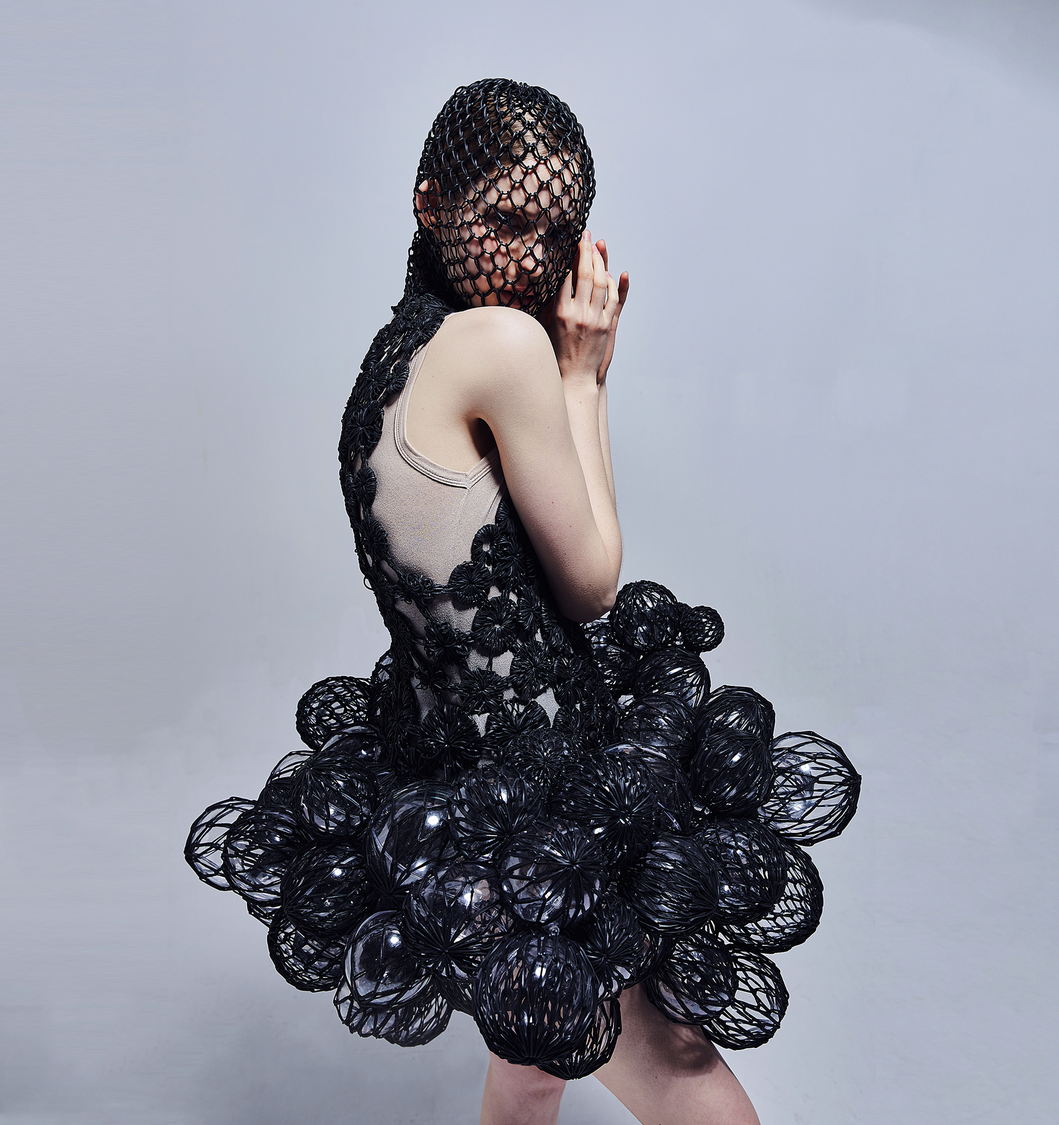
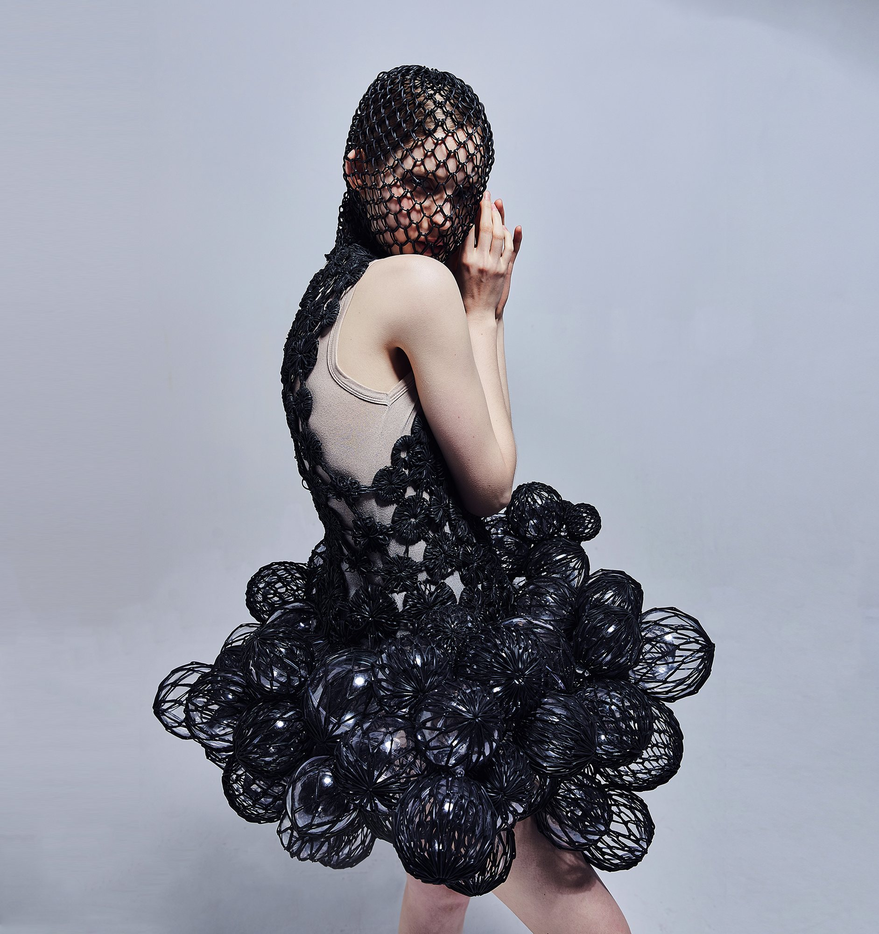
Panning project cover, Look image windows with lightbox; compress uploaded cover (v2.7)
Claude-Session: https://claude.ai/code/session_01VQV7hajEjax9oiGKXgs9MZ

Changed region(s): [[0.462, 0.093, 0.5544, 0.155], [0.77, 0.713, 0.8008, 0.744]]

diff --git a/assets/js/main.js b/assets/js/main.js
@@ -48,6 +48,7 @@
     material:   { zh: "材料探索", en: "Material Exploration" },
     others:     { zh: "其他", en: "Others" },
     soon:       { zh: "内容即将更新。", en: "Coming soon." },
+    close:      { zh: "关闭", en: "Close" },
     research:   { zh: "研究", en: "Research" },
     about:      { zh: "关于", en: "About" },
     all:        { zh: "全部", en: "All" },
@@ -178,7 +179,7 @@
     if (c.email) items.push('<a href="mailto:' + esc(c.email) + '">' + esc(c.email) + "</a>");
     if (c.instagram) items.push('<a href="' + esc(c.instagram) + '" target="_blank" rel="noopener">Instagram</a>');
     if (c.linkedin) items.push('<a href="' + esc(c.linkedin) + '" target="_blank" rel="noopener">LinkedIn</a>');
-    return "<span>© " + new Date().getFullYear() + " " + esc(S.name.en) + " " + esc(S.name.zh) + ' <i class="ver">v2.6</i></span>' +
+    return "<span>© " + new Date().getFullYear() + " " + esc(S.name.en) + " " + esc(S.name.zh) + ' <i class="ver">v2.7</i></span>' +
       (items.length ? '<span class="links">' + items.join("") + "</span>" : "");
   }
 
@@ -190,6 +191,45 @@
   }
   function sortedProjects() {
     return S.projects.slice().sort(function (a, b) { return b.year - a.year; });
+  }
+
+  /* 每套 Look 一行展示窗口；没有图片时先显示占位框
+     One row of image windows per look; placeholders until photos are added */
+  function looks(p) {
+    var L = (p.looks || []).filter(function (l) { return l && (l.name || (l.images || []).length); });
+    if (!L.length) return "";
+    return '<section class="looks">' + L.map(function (l) {
+      var pics = (l.images || []).filter(Boolean);
+      var cells = pics.length ? pics.map(function (src) { return img(src, t(p.title) + " " + (l.name || ""), "zoomable"); }).join("")
+                              : '<div class="ph missing"></div><div class="ph missing"></div><div class="ph missing"></div>';
+      return '<div class="look"><h2 class="look-name">' + esc(l.name || "") + '</h2><div class="look-grid">' + cells + "</div></div>";
+    }).join("") + "</section>";
+  }
+
+  /* 点击图片看完整大图 / click an image to see it whole */
+  function wireLightbox() {
+    var imgs = [].slice.call(document.querySelectorAll("#app .zoomable img"));
+    imgs.forEach(function (im, i) {
+      im.parentNode.onclick = function () { openBox(imgs.map(function (x) { return x.src; }), i); };
+    });
+  }
+  function openBox(list, i) {
+    var box = document.createElement("div");
+    box.className = "lightbox";
+    box.innerHTML = '<img alt=""><button class="lb-close" aria-label="' + t(UI.close) + '">×</button>' +
+      (list.length > 1 ? '<button class="lb-prev" aria-label="' + t(UI.prev) + '"></button><button class="lb-next" aria-label="' + t(UI.nextSlide) + '"></button>' : "");
+    var pic = box.querySelector("img");
+    function show(k) { i = (k + list.length) % list.length; pic.src = list[i]; }
+    function close() { box.remove(); document.removeEventListener("keydown", key); document.body.classList.remove("no-scroll"); }
+    function key(e) { if (e.key === "Escape") close(); if (e.key === "ArrowRight") show(i + 1); if (e.key === "ArrowLeft") show(i - 1); }
+    box.onclick = function (e) {
+      if (e.target.classList.contains("lb-next")) show(i + 1);
+      else if (e.target.classList.contains("lb-prev")) show(i - 1);
+      else if (e.target !== pic) close();
+    };
+    document.addEventListener("keydown", key);
+    document.body.appendChild(box); document.body.classList.add("no-scroll");
+    show(i);
   }
 
   /* ---------- 各页面 / Pages ---------- */
@@ -248,14 +288,15 @@
         '<article class="project"><header class="project-head"><h1>' + esc(t(p.title)) + "</h1>" +
         (lang === "zh" && p.title.en !== p.title.zh ? '<p class="alt-title">' + esc(p.title.en) + "</p>" : "") +
         (lang === "en" && p.title.en !== p.title.zh ? '<p class="alt-title">' + esc(p.title.zh) + "</p>" : "") + "</header>" +
-        img(p.cover, t(p.title), "ratio-wide") +
+        img(p.cover, t(p.title), "ratio-wide pan zoomable") +
         '<div class="project-body"><dl class="facts"><div><dt>' + t(UI.year) + "</dt><dd>" + esc(p.year) + "</dd></div>" +
         "<div><dt>" + t(UI.category) + "</dt><dd>" + esc(t(p.category)) + "</dd></div>" +
         (p.materials ? "<div><dt>" + t(UI.materials) + "</dt><dd>" + esc(t(p.materials)) + "</dd></div>" : "") +
         (tags ? '<div class="tags">' + tags + "</div>" : "") + "</dl>" +
         '<div class="prose">' + paras(t(p.description)) + "</div></div>" +
+        looks(p) +
         videoEmbed(p.video) +
-        '<div class="gallery">' + (p.images || []).map(function (s) { return img(s, t(p.title), ""); }).join("") + "</div>" +
+        ((p.images || []).length ? '<div class="gallery">' + p.images.map(function (s) { return img(s, t(p.title), "zoomable"); }).join("") + "</div>" : "") +
         "</article>" +
         (next && next.id !== p.id ? '<a class="next" href="' + projectUrl(next.id) + '"><span>' + t(UI.next) + "</span><strong>" + esc(t(next.title)) + " →</strong></a>" : "");
     },
@@ -395,7 +436,7 @@
   }
 
   var _render = render;
-  render = function () { _render(); wireSlider(); fitStitches(); };
+  render = function () { _render(); wireSlider(); wireLightbox(); fitStitches(); };
   if (document.fonts && document.fonts.ready) document.fonts.ready.then(fitStitches);
   Promise.all(["site", "projects", "materials", "about"].map(load)).then(function (d) {
     S = build(d[0], d[1], d[2], d[3]);

diff --git a/assets/css/style.css b/assets/css/style.css
@@ -300,3 +300,31 @@ body.no-scroll { overflow: hidden; }
 .menu-sub a { display: block; padding: 4px 0; font-size: 14px; color: var(--ink); opacity: .75; transition: opacity .2s; }
 .menu-sub a:hover { opacity: 1; }
 @media (max-width: 720px) { .menu { display: none; } }
+
+/* ---------- 项目页：封面在取景框里从上往下慢慢滑动 / Project cover slowly pans from top to bottom ----------
+   --pan-time：滑动一次用几秒 / seconds for one pass */
+.ph.pan { --pan-time: 14s; }
+.ph.pan img { object-position: 50% 0%; animation: pan var(--pan-time) ease-in-out .6s infinite alternate; }
+@keyframes pan { to { object-position: 50% 100%; } }
+@media (prefers-reduced-motion: reduce) { .ph.pan img { animation: none; object-position: 50% 30%; } }
+
+/* ---------- Looks ---------- */
+.looks { margin: clamp(48px, 7vw, 96px) 0 clamp(40px, 6vw, 80px); }
+.look + .look { margin-top: clamp(40px, 6vw, 72px); }
+.look-name { font-size: 12px; letter-spacing: .16em; text-transform: uppercase; color: var(--ink); padding-bottom: 12px; margin-bottom: clamp(14px, 2vw, 20px); border-bottom: 1px dashed var(--ink); }
+.look-grid { display: grid; grid-template-columns: repeat(3, 1fr); gap: clamp(10px, 1.6vw, 20px); }
+.look-grid .ph { aspect-ratio: 3 / 4; }
+.zoomable:not(.missing) { cursor: zoom-in; }
+.zoomable img { transition: transform .6s ease; }
+.look-grid .zoomable:hover img, .gallery .zoomable:hover img { transform: scale(1.02); }
+
+/* ---------- 大图查看 / Lightbox ---------- */
+.lightbox { position: fixed; inset: 0; z-index: 200; background: rgba(255,255,255,.97); display: flex; align-items: center; justify-content: center; padding: clamp(16px, 4vw, 56px); cursor: zoom-out; animation: lbIn .3s ease; }
+.lightbox img { position: static; width: auto; height: auto; max-width: 100%; max-height: 100%; object-fit: contain; cursor: default; }
+.lb-close { position: absolute; top: 14px; right: 20px; font-size: 30px; line-height: 1; color: var(--ink); }
+.lb-prev, .lb-next { position: absolute; top: 50%; width: 48px; height: 72px; transform: translateY(-50%); }
+.lb-prev { left: 8px; } .lb-next { right: 8px; }
+.lb-prev::before, .lb-next::before { content: ""; position: absolute; inset: 0; margin: auto; width: 20px; height: 20px; border: solid var(--ink); border-width: 1px 1px 0 0; pointer-events: none; }
+.lb-prev::before { transform: translateX(5px) rotate(-135deg); } .lb-next::before { transform: translateX(-5px) rotate(45deg); }
+@keyframes lbIn { from { opacity: 0; } }
+@media (max-width: 720px) { .look-grid { grid-template-columns: repeat(2, 1fr); } }

diff --git a/research.html b/research.html
@@ -9,12 +9,12 @@
 <link rel="preconnect" href="https://fonts.googleapis.com">
 <link rel="preconnect" href="https://fonts.gstatic.com" crossorigin>
 <link href="https://fonts.googleapis.com/css2?family=Inter+Tight:wght@300;400;600&display=swap" rel="stylesheet">
-<link rel="stylesheet" href="assets/css/style.css?v=20261101p">
+<link rel="stylesheet" href="assets/css/style.css?v=20261101q">
 </head>
 <body data-page="research">
 <header id="site-header"></header>
 <main class="wrap" id="app"></main>
 <footer id="site-footer"></footer>
-<script src="assets/js/main.js?v=20261101p"></script>
+<script src="assets/js/main.js?v=20261101q"></script>
 </body>
 </html>

diff --git a/project.html b/project.html
@@ -9,12 +9,12 @@
 <link rel="preconnect" href="https://fonts.googleapis.com">
 <link rel="preconnect" href="https://fonts.gstatic.com" crossorigin>
 <link href="https://fonts.googleapis.com/css2?family=Inter+Tight:wght@300;400;600&display=swap" rel="stylesheet">
-<link rel="stylesheet" href="assets/css/style.css?v=20261101p">
+<link rel="stylesheet" href="assets/css/style.css?v=20261101q">
 </head>
 <body data-page="project">
 <header id="site-header"></header>
 <main class="wrap" id="app"></main>
 <footer id="site-footer"></footer>
-<script src="assets/js/main.js?v=20261101p"></script>
+<script src="assets/js/main.js?v=20261101q"></script>
 </body>
 </html>

diff --git a/about.html b/about.html
@@ -9,12 +9,12 @@
 <link rel="preconnect" href="https://fonts.googleapis.com">
 <link rel="preconnect" href="https://fonts.gstatic.com" crossorigin>
 <link href="https://fonts.googleapis.com/css2?family=Inter+Tight:wght@300;400;600&display=swap" rel="stylesheet">
-<link rel="stylesheet" href="assets/css/style.css?v=20261101p">
+<link rel="stylesheet" href="assets/css/style.css?v=20261101q">
 </head>
 <body data-page="about">
 <header id="site-header"></header>
 <main class="wrap" id="app"></main>
 <footer id="site-footer"></footer>
-<script src="assets/js/main.js?v=20261101p"></script>
+<script src="assets/js/main.js?v=20261101q"></script>
 </body>
 </html>

diff --git a/works.html b/works.html
@@ -9,12 +9,12 @@
 <link rel="preconnect" href="https://fonts.googleapis.com">
 <link rel="preconnect" href="https://fonts.gstatic.com" crossorigin>
 <link href="https://fonts.googleapis.com/css2?family=Inter+Tight:wght@300;400;600&display=swap" rel="stylesheet">
-<link rel="stylesheet" href="assets/css/style.css?v=20261101p">
+<link rel="stylesheet" href="assets/css/style.css?v=20261101q">
 </head>
 <body data-page="works">
 <header id="site-header"></header>
 <main class="wrap" id="app"></main>
 <footer id="site-footer"></footer>
-<script src="assets/js/main.js?v=20261101p"></script>
+<script src="assets/js/main.js?v=20261101q"></script>
 </body>
 </html>

diff --git a/404.html b/404.html
@@ -9,12 +9,12 @@
 <link rel="preconnect" href="https://fonts.googleapis.com">
 <link rel="preconnect" href="https://fonts.gstatic.com" crossorigin>
 <link href="https://fonts.googleapis.com/css2?family=Inter+Tight:wght@300;400;600&display=swap" rel="stylesheet">
-<link rel="stylesheet" href="assets/css/style.css?v=20261101p">
+<link rel="stylesheet" href="assets/css/style.css?v=20261101q">
 </head>
 <body data-page="home">
 <header id="site-header"></header>
 <main class="wrap" id="app"></main>
 <footer id="site-footer"></footer>
-<script src="assets/js/main.js?v=20261101p"></script>
+<script src="assets/js/main.js?v=20261101q"></script>
 </body>
 </html>

diff --git a/index.html b/index.html
@@ -10,12 +10,12 @@
 <link rel="preconnect" href="https://fonts.gstatic.com" crossorigin>
 <link href="https://fonts.googleapis.com/css2?family=Inter+Tight:wght@300;400;600&display=swap" rel="stylesheet">
 <link rel="preload" as="image" href="images/splash.jpg">
-<link rel="stylesheet" href="assets/css/style.css?v=20261101p">
+<link rel="stylesheet" href="assets/css/style.css?v=20261101q">
 </head>
 <body data-page="home">
 <header id="site-header"></header>
 <main class="wrap" id="app"></main>
 <footer id="site-footer"></footer>
-<script src="assets/js/main.js?v=20261101p"></script>
+<script src="assets/js/main.js?v=20261101q"></script>
 </body>
 </html>
